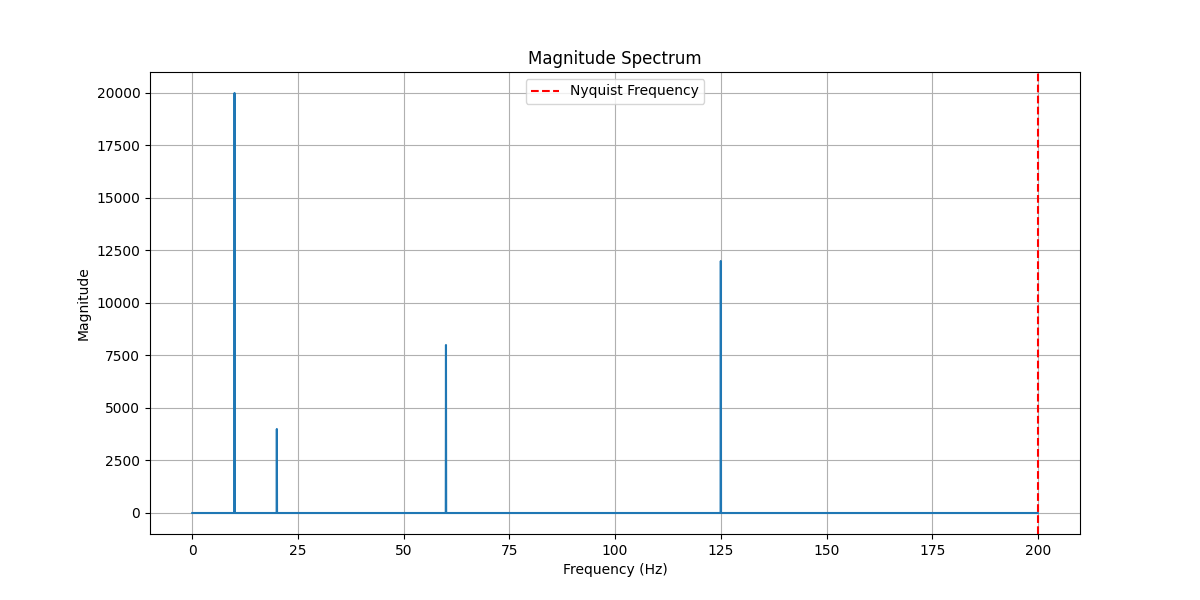
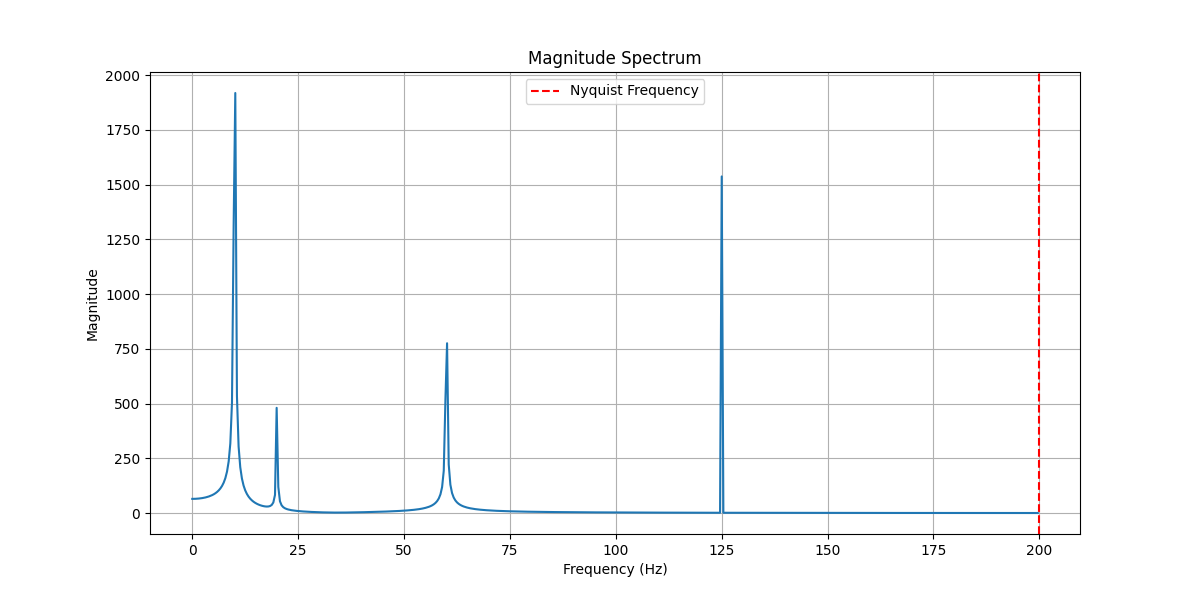
save for fft artifact graph in combined

diff --git a/Combined-Simulator/shiao/test_fft_interface.py b/Combined-Simulator/shiao/test_fft_interface.py
@@ -11,13 +11,14 @@ from cocotb.types import LogicArray
 async def test_fft_verilog(dut):
     # pipe setup -------------------------------------------------------------------------------------
     # Sample information
-    sample_freq = 400 # Hz
     num_channels = 16 # 1 for now, will be 16 in the future.
-    sample_window = 20 # seconds
-
-    # num_samples = sample_freq * sample_window # how many samples in 20 s window at 400hz
-    num_samples = 1024 # 1024 samples for now <--- test val
-
+    # 1024 samples and 400Hz =>
+    num_samples = 1024 # how many samples in window
+    sample_rate = 400 # sample rate in Hz
+    sample_window = num_samples / sample_rate # how long the window is in seconds
+    
+    sample_freq = sample_rate # sample frequency in Hz (how many samples/second)
+    
     nyquist_freq = sample_freq / 2 # Nyquist frequency, max frequency that can be represented in the signal
     
     # berger bands
@@ -164,15 +165,31 @@ async def fft_verilog(dut,
     for i in range(len(real_output)):
         output_spectrum[i] = np.sqrt(np_real_output[i]**2 + np_imag_output[i]**2)
 
+    positive_freqs = output_spectrum[:len(output_spectrum)//2]
+    sample_spacing = 1/sample_freq # how much time between samples
+    freq_bins = np.fft.fftfreq(num_samples, sample_spacing) # provide a frequency for each index of the fft output
+    positive_freq_bins = freq_bins[:num_samples // 2] # only positive frequencies bins
+
     # plotting the output spectrum
     if saveGraphs:
+        # Plotting the magnitude spectrum
         plt.figure(figsize=(12, 6))
-        plt.plot(output_spectrum)
-        plt.title('Output Spectrum')
-        plt.xlabel('Frequency')
+        # x-axis is the frequency bins,
+        plt.plot(positive_freq_bins, np.abs(positive_freqs))  # Plot only positive frequencies
+        plt.axvline(x=nyquist_freq, color='r', linestyle='--', label='Nyquist Frequency')
+        plt.title('Magnitude Spectrum')
+        plt.xlabel('Frequency (Hz)')
         plt.ylabel('Magnitude')
+        plt.legend()
         plt.grid()
-        plt.savefig('plots/seizure_pipe/output_spectrum')
+        plt.savefig('plots/seizure_pipe/fft_magnitude_spectrum.png')
+        # plt.figure(figsize=(12, 6))
+        # plt.plot(output_spectrum)
+        # plt.title('Output Spectrum')
+        # plt.xlabel('Frequency')
+        # plt.ylabel('Magnitude')
+        # plt.grid()
+        # plt.savefig('plots/seizure_pipe/output_spectrum')
 
     return output_spectrum
 

diff --git a/HighLevel-Simulator/shiao/test_seizure_pipeline.py b/HighLevel-Simulator/shiao/test_seizure_pipeline.py
@@ -16,11 +16,14 @@ def test_seizure_pipeline():
 
     # pipe setup -------------------------------------------------------------------------------------
     # Sample information
-    sample_freq = 400 # Hz
     num_channels = 16 # 1 for now, will be 16 in the future.
-    sample_window = 20 # seconds
-
-    num_samples = sample_freq * sample_window # how many samples in 20 s window at 400hz
+    # 1024 samples and 400Hz =>
+    num_samples = 1024 # how many samples in window
+    sample_rate = 400 # sample rate in Hz
+    sample_window = num_samples / sample_rate # how long the window is in seconds
+    
+    sample_freq = sample_rate # sample frequency in Hz (how many samples/second)
+    
     nyquist_freq = sample_freq / 2 # Nyquist frequency, max frequency that can be represented in the signal
     
     # berger bands
